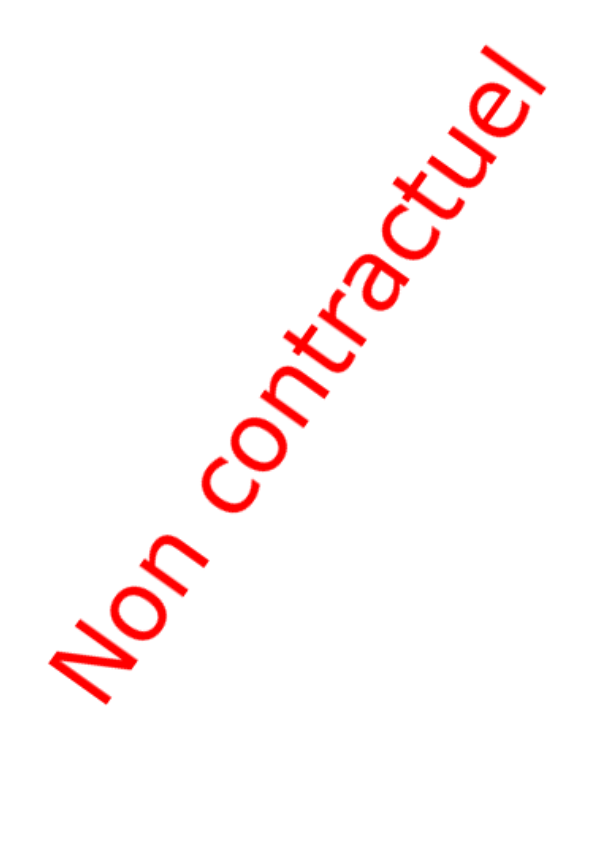
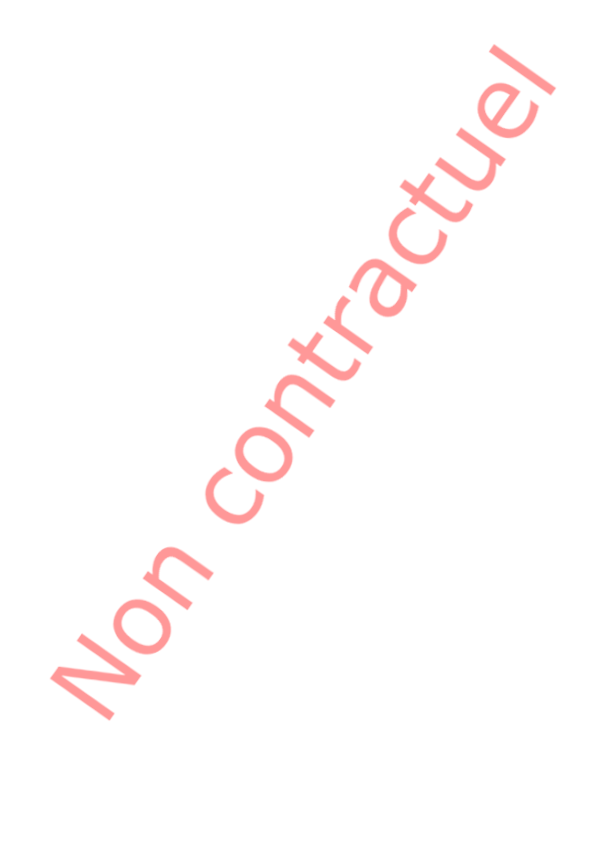
support safari

Changed region(s): [[0.3328, 0.0309, 0.9378, 0.6485], [0.0605, 0.6176, 0.363, 0.8646]]

diff --git a/imports/_common/4_dumbComponent/DevisEdit.js b/imports/_common/4_dumbComponent/DevisEdit.js
@@ -18,7 +18,7 @@ import {
 class DevisEdit extends Component {
 	
 	render(){
-		let { active_user, active_devis, active_element,active_logique,draged,
+		let { active_user, active_devis, active_element,active_logique,draged, 
 			devis,devis_controle,element_controle,logique_controle, 
 			elements, logiques,entreprises } = this.props;
 		let {controleSet,view1,view2} = this.props
@@ -26,7 +26,7 @@ class DevisEdit extends Component {
 			logiques = typeof logiques !== undefined && typeof logiques === "object" && logiques instanceof Array ? logiques:[]
 	
 			let { libelle,prix,numerique, dynamique,sans_interaction,titre_lvl } = element_controle;
-			let { titre,entreprise,client,contractuel, tjm, unite, password} = devis_controle;
+			let { titre,entreprise,client,contractuel, tjm, unite, unitedelais, password, delais} = devis_controle;
 			let { libelle_log,prix_log,numerique_log } = logique_controle;
 
 			let D_elements = elements.filter(elt=>elt.dynamique===true)
@@ -68,8 +68,10 @@ class DevisEdit extends Component {
 							client = {active_devis ? client: devis?devis.client:""}
 							contractuel = {active_devis ? contractuel: devis?devis.contractuel:false}
 							tjm = {active_devis ? tjm : devis?devis.tjm:""}
+							delais = {active_devis ? delais : devis?devis.delais:""}
 							password = {active_devis ? password : devis?devis.password:""}
 							unite = {active_devis ? unite : devis?devis.unite:""}
+							unitedelais = {active_devis ? unitedelais : devis?devis.unitedelais:""}
 							/>
 
 					
@@ -95,14 +97,14 @@ class DevisEdit extends Component {
 						display:"flex",
 						flexDirection:"column" }}>
 						
-						<Button onClick={this.props.elementAdd} dynamique= {true}>Ajouter une élément</Button>
+						<Button style={{minHeight:28}} onClick={this.props.elementAdd} dynamique= {true}>Ajouter une élément</Button>
 						<div style={{display:"flex",flexDirection:"row", paddingLeft:12,paddingRight:17,backgroundColor:"white"}}>
 							<div style={{flex:1,overflow:"hidden"}}>ID</div>
-							<div style={{flex:7,display:"flex",flexDirection:"row",}}>
-								<div style={{flex:4,overflow:"hidden",padding:"0px 5px",wordWrap: "break-word"}}>Libellé</div>
-								<div style={{flex:1,overflow:"hidden",padding:"0px 5px",wordWrap: "break-word"}}>Titre</div>
-								<div style={{flex:1,overflow:"hidden",padding:"0px 5px",wordWrap: "break-word"}}>Sans interaction</div>
-								<div style={{flex:1,overflow:"hidden",padding:"0px 5px",wordWrap: "break-word"}}>Numerique</div>		
+							<div style={{flex:7,display:"flex",flexDirection:"row",minHeight:24}}>
+								<div style={{flex:4,overflow:"hidden",padding:"0px 5px",wightSpace:"nowrap",wordWrap: "keepall-word"}}>Libellé</div>
+								<div style={{flex:1,overflow:"hidden",padding:"0px 5px",wightSpace:"nowrap",wordWrap: "keepall-word"}}>Titre</div>
+								<div style={{flex:1,overflow:"hidden",padding:"0px 5px",wightSpace:"nowrap",wordWrap: "keepall-word",textDecoration: "line-through"}}>Interaction</div>
+								<div style={{flex:1,overflow:"hidden",padding:"0px 5px",wightSpace:"nowrap",wordWrap: "keepall-word"}}>Numerique</div>		
 							</div>
 							<div style={{width:"50px"}}></div>
 							<div style={{width:"50px"}}></div>
@@ -194,15 +196,15 @@ class DevisEdit extends Component {
 						overflowY:"hidden",
 						display:"flex",
 						flexDirection:"column" }}>
-						<Button onClick={this.props.elementAdd}>Ajouter une élément</Button>
+						<Button style={{minHeight:28}} onClick={this.props.elementAdd}>Ajouter une élément</Button>
 						<div style={{display:"flex",flexDirection:"row", paddingLeft:15,paddingRight:20,backgroundColor:"white"}}>
 							<div style={{flex:1,overflow:"hidden"}}>ID</div>
-							<div style={{flex:8,display:"flex",flexDirection:"row",}}>
-								<div style={{flex:4,overflow:"hidden",padding:"0px 5px",wordWrap: "break-word"}}>Libellé</div>
-								<div style={{flex:1,overflow:"hidden",padding:"0px 5px",wordWrap: "break-word"}}>{devis.unite}</div>
-								<div style={{flex:1,overflow:"hidden",padding:"0px 5px",wordWrap: "break-word"}}>Titre</div>
-								<div style={{flex:1,overflow:"hidden",padding:"0px 5px",wordWrap: "break-word"}}>Sans interaction</div>
-								<div style={{flex:1,overflow:"hidden",padding:"0px 5px",wordWrap: "break-word"}}>Numerique</div>		
+							<div style={{flex:8,display:"flex",flexDirection:"row",minHeight:24}}>
+								<div style={{flex:4,overflow:"hidden",padding:"0px 5px",wightSpace:"nowrap",wordWrap: "keepall-word"}}>Libellé</div>
+								<div style={{flex:1,overflow:"hidden",padding:"0px 5px",wightSpace:"nowrap",wordWrap: "keepall-word"}}>{devis.unite}</div>
+								<div style={{flex:1,overflow:"hidden",padding:"0px 5px",wightSpace:"nowrap",wordWrap: "keepall-word"}}>Titre</div>
+								<div style={{flex:1,overflow:"hidden",padding:"0px 5px",wightSpace:"nowrap",wordWrap: "keepall-word",textDecoration: "line-through"}}>Interaction</div>
+								<div style={{flex:1,overflow:"hidden",padding:"0px 5px",wightSpace:"nowrap",wordWrap: "keepall-word"}}>Numerique</div>		
 							</div>
 							
 							<div style={{width:"50px"}}></div>

diff --git a/imports/_common/4_dumbComponent/DevisDynamique.js b/imports/_common/4_dumbComponent/DevisDynamique.js
@@ -42,34 +42,30 @@ export default class DevisDynamique extends Component {
 				transition:"0.5s",
 				display:"flex", 
 				flexDirection:"column", 
-				flex:1,
 				alignItems:"center",
-				overflow:"scroll",
-				zIndex:50,
+				minHeight:"100%",
 				...this.props.style
 			}}
 			>
-				{/*adresse de l'entreprise*/}
-
-				<div style={{display:"flex", flexDirection:"column",alignItems:"center",flex:1, width:"100%",maxWidth:800}}>
-				<div style={{display:"flex", flexDirection:"column",alignItems:"center",width:"100%"}}>
-				<span style={{fontSize:"18px",fontWeight:"bold"}}>
-								{devis.titre}
-				</span>
-				</div>
-				<div style={{display:"flex",width:"100%",flexDirection:"row"}}>
-				<div style={{display:"flex",flex:1,padding:"5px",border:"1px solid black",margin:"10px 10px 0px 10px"}}>
-					{dsactif?<div style={{flex:1}}><span style={{color:"rgb(200,200,200)"}}>ID</span></div>:""}
-					<span style={{flex:5}}>prestation</span>
-					<div style={{flex:1}}><span>choix</span></div>
-				</div>
-				</div>
-				<div style={{display:"flex",width:"100%",flexDirection:"row"}}>
-				<div style={{border:"1px solid black",flex:1,borderTop:"none",margin:"0px 10px 0px 10px"}}>
+				<div style={{display:"flex", flexDirection:"column",alignItems:"center", width:"100%",maxWidth:800,flex:1}}>
+					<div style={{alignItems:"center",width:"100%"}}>
+						<span style={{fontSize:"18px",fontWeight:"bold"}}>
+										{devis.titre}
+						</span>
+					</div>
+					<div style={{width:"100%"}}>
+						<div style={{display:"flex",flex:"1 1 auto",padding:"5px",border:"1px solid black",margin:"10px 10px 0px 10px"}}>
+							{dsactif?<div style={{flex:"1 1 auto"}}><span style={{color:"rgb(200,200,200)"}}>ID</span></div>:""}
+							<span style={{flex:"5 1 auto"}}>prestation</span>
+							<div style={{flex:"1 1 auto"}}><span>choix</span></div>
+						</div>
+					</div>
+			<div style={{width:"100%",flex:1}}>
+				<div style={{border:"1px solid black",borderTop:"none",margin:"0px 10px 0px 10px"}}>
 				{elements.map((element,i)=><div key={i} style={{fontSize:element.titre_lvl?((5*element.titre_lvl+14)+"px"):"14px",fontWeight:element.titre_lvl?(50*element.titre_lvl+400):"normal",display:"flex",padding:"2px 5px",borderTop:"none" }}>
-					{dsactif?<div style={{flex:1}}><span style={{color:"rgb(200,200,200)"}}>{i}</span></div>:""}
+					{dsactif?<div style={{flex:"1 1 auto"}}><span style={{color:"rgb(200,200,200)"}}>{i}</span></div>:""}
 					<span style={{flex:5}}>{element.libelle}</span>
-					<div style={{flex:1,display:"flex",alignItems:"center",justifyContent:"center"}}>	
+					<div style={{flex:"1 1 auto",display:"flex",alignItems:"center",justifyContent:"center"}}>	
 						{!element.sans_interaction?!element.numerique?<Checkbox
 									label = ""
 									name = {element._id}
@@ -90,11 +86,11 @@ export default class DevisDynamique extends Component {
 					</div>
 				</div>)}
 				</div>
-				</div>
+			</div>
 				
-			<div style={{display:"flex",width:"100%",justifyContent:"flex-end", marginTop:"10px"}}>
-				<div style={{display:"flex",justifyContent:"space-between", flex:1}}>
-					<div style={{display:"flex",flex:1, flexDirection:"column",alignItems:"flex-start",border:"1px solid black",padding:"5px",margin:"0px 0px 0px 10px"}}>
+			<div style={{width:"100%"}}>
+				<div style={{display:"flex", padding:10,paddingBottom:0}}>
+					<div style={{display:"flex",flex:1, flexDirection:"column",alignItems:"flex-start",border:"1px solid black",padding:"5px"}}>
 						<span>Prix</span>
 					</div>
 					<div style={{display:"flex",flex:1, flexDirection:"column",alignItems:"flex-end",border:"1px solid black",padding:"5px",borderLeft:"none"}}>
@@ -102,11 +98,11 @@ export default class DevisDynamique extends Component {
 						<span>{prix_total} TTC</span>
 					</div>
 				</div>
-				<div style={{display:"flex",flex:1,justifyContent:"space-between",marginLeft:"10px"}}>
+				<div style={{display:"flex", padding:10,paddingTop:0}}>
 					<div style={{display:"flex",flex:1, flexDirection:"column",alignItems:"flex-start",border:"1px solid black",padding:"5px"}}>
 						<span>TVA</span>
 					</div>
-					<div style={{display:"flex",flex:1, flexDirection:"column",alignItems:"flex-end",border:"1px solid black",padding:"5px",borderLeft:"none",margin:"0px 10px 0px 0px"}}>
+					<div style={{display:"flex",flex:1, flexDirection:"column",alignItems:"flex-end",border:"1px solid black",padding:"5px",borderLeft:"none"}}>
 						<span>20% HT</span>
 						<span>{prix_total*20/100} TTC</span>
 					</div>

diff --git a/imports/_common/4_dumbComponent/DevisShow.js b/imports/_common/4_dumbComponent/DevisShow.js
@@ -54,18 +54,18 @@ export default class DevisShow extends Component {
 				display:"flex", 
 				flexDirection:"column", 
 				flex:1,
-				alignItems:"center",
-				justifyContent:"center",
+
+				alignItems:"flex-start",
+				justifyContent:"flex-start",
 				overflow:"scroll",
-				position: "relative",
 				zIndex:50,
 				...this.props.style
 			}}
 			>
+			<div style={{display:"flex", flexDirection:"column",top:0}}>
+				
 			
 			{elements.map((eltt,i)=><div key={i} style={{
-
-				transform:"translateY("+i*34+"cm)",
 				transition:"0.5s",
 				width:"100%",
 				display:"flex",
@@ -73,9 +73,6 @@ export default class DevisShow extends Component {
 				alignItems:"center",
 			  minHeight:"36cm",
 			  minWidth:"30cm",
-			  position: "absolute",
-			 	left:0,
-			  top:0,
 			  zIndex:60
 			}}>
 
@@ -84,24 +81,14 @@ export default class DevisShow extends Component {
 			        flexDirection:"column",
 			        width:"21cm",
 			        height:"29.7cm",
-			        position: "absolute",
+							background:contractuel?"":"center/80% no-repeat url('/image/non_contractuel.png') ",
 			        zIndex:80,
 			        padding:"60px 100px 70px 100px",
 			        backgroundColor:"white",
 			        fontSize:12
 						}}>
 			
-			<div style={{
-				position: "absolute",
-				display:"flex",
-			  flexDirection:"column",
-				zIndex:70,
-			 	left:0,
-			  top:0,
-				width:"100%",
-				height:"100%",
-				background:"center/80% no-repeat url('/image/non_contractuel.png')",
-				opacity:contractuel?0:0.5}}></div>
+	
 				{/*adresse de l'entreprise*/}
 				<div style={{display:"flex",flexDirection:"column",width:"100%",height:"100%"}}>
 				{i<1?<div>
@@ -182,6 +169,16 @@ export default class DevisShow extends Component {
 									
 								</div>
 							</div>
+							{devis.delais?<div style={{display:"flex",justifyContent:"space-between",marginLeft:"10px", flex:1}}>
+								<div style={{display:"flex",flex:1, flexDirection:"column",alignItems:"flex-start",border:"1px solid black",padding:"5px"}}>
+									<span>Delais</span>
+								</div>
+								<div style={{display:"flex",flex:1, flexDirection:"column",alignItems:"flex-end",border:"1px solid black",padding:"5px",borderLeft:"none"}}>
+									<div><span style={{fontWeight:"bold"}}>{((prix_total/(devis.tjm?devis.tjm:1))*(devis.delais?devis.delais:1)).toFixed(2)}</span> 
+									<span style={{}}>{" "+(devis.unitedelais?devis.unitedelais:devis.unite)}</span></div>
+								</div>
+							</div>:""}
+
 							<div style={{display:"flex",flex:1,justifyContent:"space-between",marginLeft:"10px"}}>
 								<div style={{display:"flex",flex:1, flexDirection:"column",alignItems:"flex-start",border:"1px solid black",padding:"5px"}}>
 									<span>Prix d'un {devis.unite}</span>
@@ -199,6 +196,7 @@ export default class DevisShow extends Component {
 								<div style={{display:"flex",flex:1, flexDirection:"column",alignItems:"flex-start",border:"1px solid black",padding:"5px"}}>
 									<span>Prix</span>
 								</div>
+
 								<div style={{display:"flex",flex:1, flexDirection:"column",alignItems:"flex-end",border:"1px solid black",padding:"5px",borderLeft:"none"}}>
 									<span style={{fontWeight:"bold"}}>{prix_total} HT</span>
 									<span>{prix_total} TTC</span>
@@ -224,15 +222,16 @@ export default class DevisShow extends Component {
 						<span></span>
 					</div>
 					<div style={{display:"flex",flex:1, flexDirection:"column",alignItems:"flex-end",border:"1px solid black",padding:"5px",borderLeft:"none"}}>
-						<span>lkmk</span>
-						<span>lkml</span>
+						<span></span>
+						<span></span>
 					</div>
 			</div>:""}
 			</div>
 			
 			</div>
 				
-			</div>)}		
+			</div>)}
+			</div>	
 		</div>
 			
 		);

diff --git a/imports/_common/4_dumbComponent/DevisForm.js b/imports/_common/4_dumbComponent/DevisForm.js
@@ -66,7 +66,7 @@ export default class DevisForm extends Component {
 	
 	render() {
 			let {
-				titre,entreprise,client,contractuel,options, tjm, unite,password,
+				titre,entreprise,client,contractuel,options, tjm, unite,password, delais, unitedelais,
 				onChange,
 				active
 			} = this.props;
@@ -84,10 +84,7 @@ export default class DevisForm extends Component {
 			}}>
 				<div onClick={!active?this._onEdit:()=>{}}
 				style={{
-					width:"100%",
-					flex:1,
-					display:"flex", 
-					flexDirection:"column"
+					width:"100%"
 				}}>
 						<div 
 						 style={{display:"flex", justifyContent:"flex-end", height: "40px" }}>
@@ -134,11 +131,11 @@ export default class DevisForm extends Component {
 						/>
 
 						<Input
-							style={{flex:1, maxWidth:160}}
+							style={{flex:1, maxWidth:80}}
 							type="number"
 							min="0"
 							label="prix d'une unitée"
-							placeholder="450"
+							placeholder="480"
 							name="tjm"
 							onChange={this._onChange}
 							value={tjm||""}
@@ -146,7 +143,7 @@ export default class DevisForm extends Component {
 						/>
 
 						<Input
-							style={{flex:1, maxWidth:160}}
+							style={{flex:1, maxWidth:80}}
 							label="Unite"
 							placeholder="1/2 jour"
 							name="unite"
@@ -154,9 +151,34 @@ export default class DevisForm extends Component {
 							value={unite||""}
 							active={active}
 						/>
+						<Input
+							style={{flex:1, maxWidth:80}}
+							step="0.01"
+							type="number"
+							min="0"
+							label="Multiplicateur de delais"
+							placeholder="1"
+							name="delais"
+							onChange={this._onChange}
+							value={delais}
+							active = {active}
+						/>
+
+						
+						</div>
+						<div style={{display:"flex", justifyContent:"space-around", alignItems:"center",marginTop:10}}>
 
 						<Input
-							style={{flex:1, maxWidth:160}}
+							style={{flex:1, maxWidth:80}}
+							label="Unite du delais"
+							placeholder="mois"
+							name="unitedelais"
+							onChange={this._onChange}
+							value={unitedelais||""}
+							active={active}
+						/>
+						<Input
+							style={{flex:1, maxWidth:80}}
 							label="Password"
 							placeholder=""
 							name="password"
@@ -166,11 +188,10 @@ export default class DevisForm extends Component {
 						/>
 						</div>
 						</div>
-						
 				
 						
 					</div>
-					{active?<Button
+					{active?<Button style={{minHeight:28}}
 							onClick={this._onSave}
 							>Sauvegarder</Button>:""}
 					</div>

diff --git a/imports/4_pages/Devis.js b/imports/4_pages/Devis.js
@@ -231,7 +231,7 @@ class Devis extends Component {
 
 	        if(img_datas!==undefined&&typeof img_datas==="object"&&Object.keys(img_datas).length===total){
 	        	Object.keys(img_datas).forEach((img,j)=>{
-	        		pdf.addImage(img_datas[img], 'JPEG', 0, 0,210,297);
+	        		pdf.addImage(img_datas[img], 'JPEG', 0, 0,210,297, undefined, 'FAST');
 	        		if(j<(total-1)){
 	        			pdf.addPage()
 	        		}else{
@@ -257,11 +257,11 @@ class Devis extends Component {
 			devisControle(obj);
 	}
 
-	_devisEdit({_id,titre,entreprise,client,contractuel, tjm, unite,password}){
+	_devisEdit({_id,titre,entreprise,client,contractuel, tjm, unite,password,delais, unitedelais}){
 		let { devisControle } = this.props;
 		let {controleSet} = this.props
 
-			devisControle({_id,titre,entreprise,client,contractuel, tjm, unite,password});
+			devisControle({_id,titre,entreprise,client,contractuel, tjm, unite,password,delais,unitedelais});
 			controleSet({active_devis:true,active_element:-1,active_logique:-1})
 	}
 	_devisSave({_id}){

diff --git a/imports/4_pages/Home.js b/imports/4_pages/Home.js
@@ -40,6 +40,8 @@ class Home extends Component {
 					</div>
 				}
 				<div style={{flex:1}}></div>
+				<div>Cette application est encore en phase de test, nous ne garentissons pas encore le maintient des données, toute remarque sera la bienvenue <a href="https://lgatl.fr/contact">lgatl.fr/contact</a></div>
+				<div>This application is still in the testing phase, we do not yet guarantee the maintenance of data, any comments will be welcome <a href="https://lgatl.fr/contact">lgatl.fr/contact</a></div>
 				<div style = {{height: "30%", width:"50%", background:"url('/image/icon-textsup200.png')no-repeat center", backgroundSize: "contain"}}>developed by</div>
 			</div>
 		);
